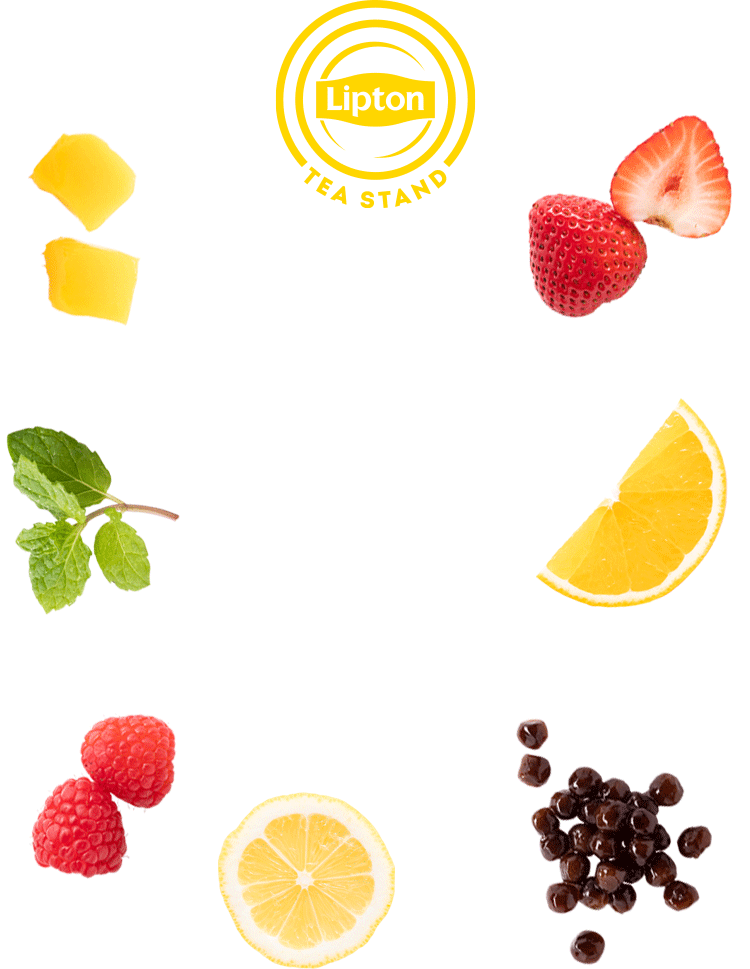
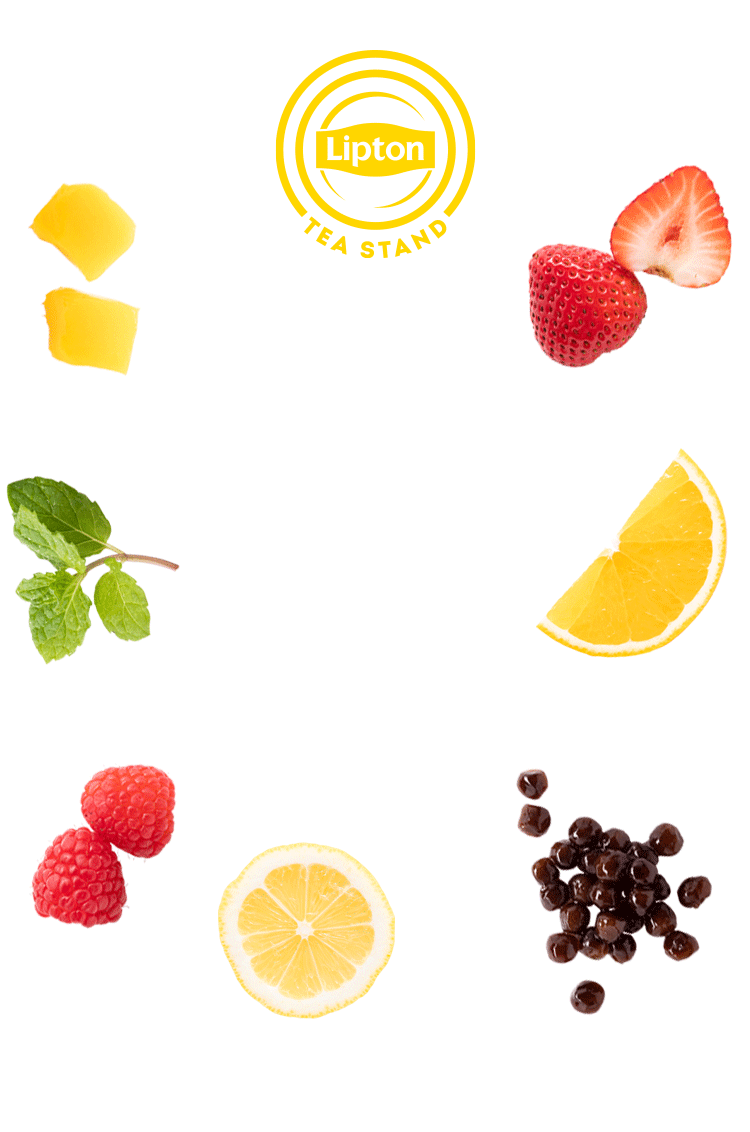
Adjustment CSS for Tablet and Desktop

diff --git a/source/pub/css/teaser.css b/source/pub/css/teaser.css
@@ -1,1 +1,1 @@
-body{margin:0;font-size:12px}.lptn-teaser{padding-top:8%;background:url(../img/teaser/bg.png) no-repeat center 25px;background-size:contain}.lptn-teaser--countdown{border-radius:60px;position:relative;width:497px;height:505px;background:url(../img/teaser/lipton-countdown.png) no-repeat center center;background-size:cover;box-shadow:15px 15px 30px 0px rgba(153,153,153,0.75);transform:scale(0.5)}.lptn-teaser--countdown-number{margin-right:2%;padding-top:42%;position:absolute;top:0;right:0;left:0;line-height:1;color:#F9D649;text-align:center;font-weight:bold;font-size:800%}.lptn-teaser-footer{text-align:center}@media all and (max-width: 320px){.lptn-teaser--countdown{left:-27.5%}}@media all and (min-width: 360px){.lptn-teaser--countdown{left:-17.5%}}@media all and (min-width: 375px){.lptn-teaser--countdown{left:-15%}}@media all and (min-width: 410px){.lptn-teaser{min-height:600px}.lptn-teaser--countdown{left:-9.5%}}@media all and (min-width: 414px){.lptn-teaser{min-height:600px}.lptn-teaser--countdown{left:-9.5%}}
+body{margin:0;font-size:12px}.lptn-teaser{padding-top:45%;padding-bottom:45%;background:url(../img/teaser/bg.png) no-repeat center 25px;background-size:contain}.lptn-teaser--countdown{margin:auto;border-radius:30px;position:relative;width:calc(497px / 2);height:calc(505px / 2);background:#F9D649 url(../img/teaser/lipton-countdown.png) no-repeat center center;background-size:cover;box-shadow:15px 15px 30px 0px rgba(153,153,153,0.75)}.lptn-teaser--countdown-number{margin-right:2%;padding-top:42%;position:absolute;top:0;right:0;left:0;line-height:1;color:#F9D649;text-align:center;font-weight:bold;font-size:400%}.lptn-teaser-footer{padding-top:5%;padding-bottom:5%;text-align:center}@media all and (min-width: 461px){.lptn-teaser{padding-bottom:60%}}@media all and (min-width: 768px){.lptn-teaser{padding-top:18%;padding-bottom:25%;background-image:url(../img/teaser/bg-large.png)}}

diff --git a/source/src/sass/teaser.sass b/source/src/sass/teaser.sass
@@ -11,19 +11,20 @@ body
   font-size: 12px
 
 .lptn-teaser
-  padding-top: 8%
+  padding-top: 45%
+  padding-bottom: 45%
   background: url(../img/teaser/bg.png) no-repeat center 25px
   background-size: contain
 
   &--countdown
-    border-radius: 60px
+    margin: auto
+    border-radius: 30px
     position: relative
-    width: 497px
-    height: 505px
-    background: url(../img/teaser/lipton-countdown.png) no-repeat center center
+    width: calc(497px / 2)
+    height: calc(505px / 2)
+    background: #F9D649 url(../img/teaser/lipton-countdown.png) no-repeat center center
     background-size: cover
     box-shadow: 15px 15px 30px 0px rgba(153,153,153,0.75)
-    transform: scale(0.5)
 
     &-number
       margin-right: 2%
@@ -36,34 +37,19 @@ body
       color: #F9D649
       text-align: center
       font-weight: bold
-      font-size: 800%
+      font-size: 400%
 
   &-footer
+    padding-top: 5%
+    padding-bottom: 5%
     text-align: center
 
-+mq-max-screen(320px)
++mq-min-screen(461px)
   .lptn-teaser
-    &--countdown
-      left: -27.5%
+    padding-bottom: 60%
 
-+mq-min-screen(360px)
++mq-min-screen(768px)
   .lptn-teaser
-    &--countdown
-      left: -17.5%
-
-+mq-min-screen(375px)
-  .lptn-teaser
-    &--countdown
-      left: -15%
-
-+mq-min-screen(410px)
-  .lptn-teaser
-    min-height: 600px
-    &--countdown
-      left: -9.5%
-
-+mq-min-screen(414px)
-  .lptn-teaser
-    min-height: 600px
-    &--countdown
-      left: -9.5%
+    padding-top: 18%
+    padding-bottom: 25%
+    background-image: url(../img/teaser/bg-large.png)
